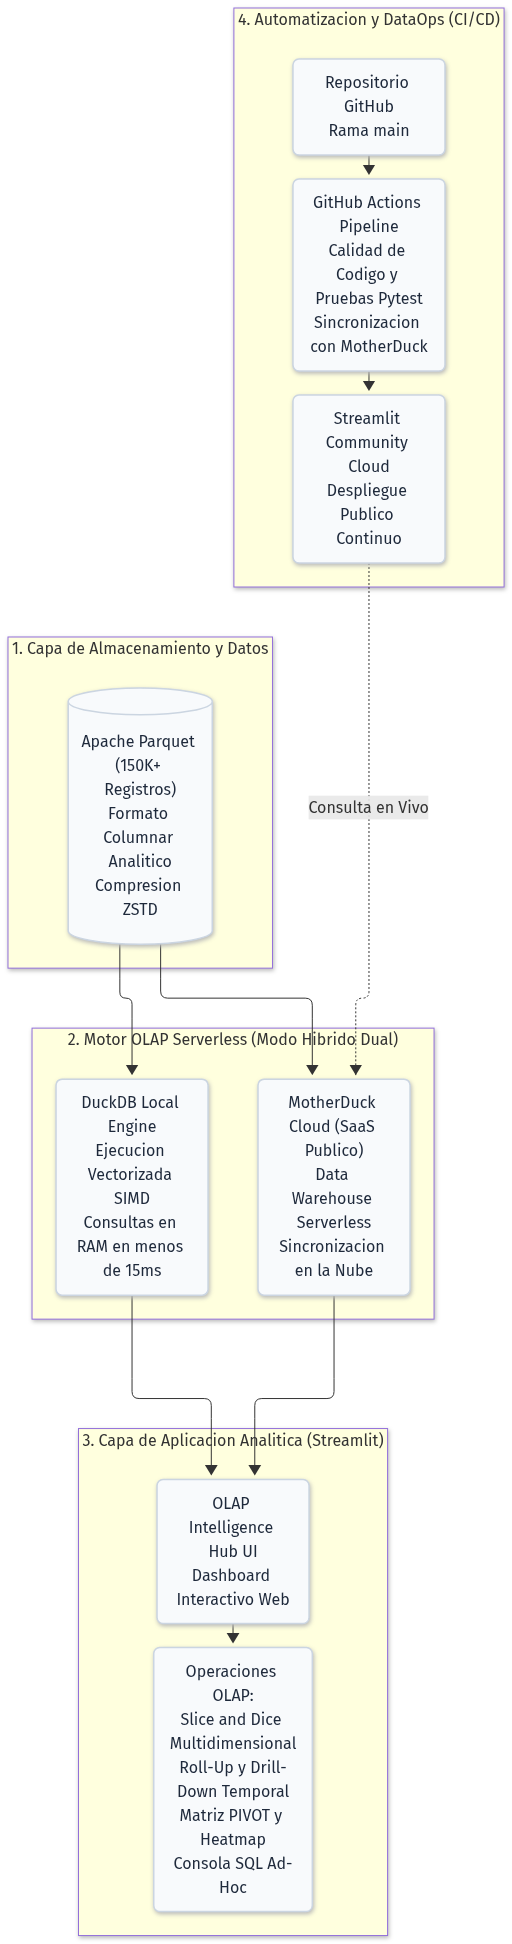
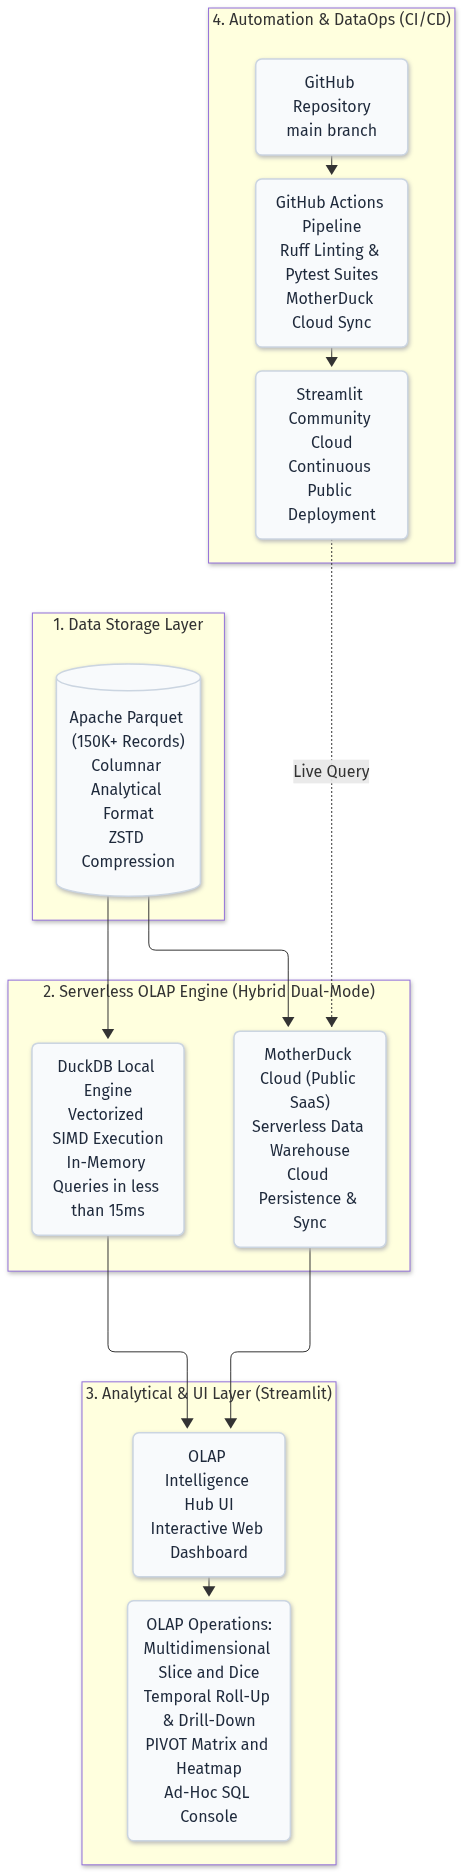
docs: translate full article and architecture diagram to English

Changed region(s): [[0.0, 0.0, 0.9978, 1.0]]

diff --git a/scripts/generate_diagram.py b/scripts/generate_diagram.py
@@ -7,24 +7,24 @@ diagram = """graph TD
     classDef layerBox fill:#ffffff,stroke:#0284c7,stroke-width:2px,color:#0f172a,rx:8px,ry:8px;
     classDef nodeStyle fill:#f8fafc,stroke:#cbd5e1,stroke-width:1.5px,color:#1e293b,rx:6px,ry:6px;
 
-    subgraph Data["1. Capa de Almacenamiento y Datos"]
-        A[("Apache Parquet (150K+ Registros)<br/>Formato Columnar Analitico<br/>Compresion ZSTD")]:::nodeStyle
+    subgraph Data["1. Data Storage Layer"]
+        A[("Apache Parquet (150K+ Records)<br/>Columnar Analytical Format<br/>ZSTD Compression")]:::nodeStyle
     end
 
-    subgraph Engines["2. Motor OLAP Serverless (Modo Hibrido Dual)"]
-        B["DuckDB Local Engine<br/>Ejecucion Vectorizada SIMD<br/>Consultas en RAM en menos de 15ms"]:::nodeStyle
-        C["MotherDuck Cloud (SaaS Publico)<br/>Data Warehouse Serverless<br/>Sincronizacion en la Nube"]:::nodeStyle
+    subgraph Engines["2. Serverless OLAP Engine (Hybrid Dual-Mode)"]
+        B["DuckDB Local Engine<br/>Vectorized SIMD Execution<br/>In-Memory Queries in less than 15ms"]:::nodeStyle
+        C["MotherDuck Cloud (Public SaaS)<br/>Serverless Data Warehouse<br/>Cloud Persistence & Sync"]:::nodeStyle
     end
 
-    subgraph UI["3. Capa de Aplicacion Analitica (Streamlit)"]
-        D["OLAP Intelligence Hub UI<br/>Dashboard Interactivo Web"]:::nodeStyle
-        E["Operaciones OLAP:<br/>Slice and Dice Multidimensional<br/>Roll-Up y Drill-Down Temporal<br/>Matriz PIVOT y Heatmap<br/>Consola SQL Ad-Hoc"]:::nodeStyle
+    subgraph UI["3. Analytical & UI Layer (Streamlit)"]
+        D["OLAP Intelligence Hub UI<br/>Interactive Web Dashboard"]:::nodeStyle
+        E["OLAP Operations:<br/>Multidimensional Slice and Dice<br/>Temporal Roll-Up & Drill-Down<br/>PIVOT Matrix and Heatmap<br/>Ad-Hoc SQL Console"]:::nodeStyle
     end
 
-    subgraph DevOps["4. Automatizacion y DataOps (CI/CD)"]
-        F["Repositorio GitHub<br/>Rama main"]:::nodeStyle
-        G["GitHub Actions Pipeline<br/>Calidad de Codigo y Pruebas Pytest<br/>Sincronizacion con MotherDuck"]:::nodeStyle
-        H["Streamlit Community Cloud<br/>Despliegue Publico Continuo"]:::nodeStyle
+    subgraph DevOps["4. Automation & DataOps (CI/CD)"]
+        F["GitHub Repository<br/>main branch"]:::nodeStyle
+        G["GitHub Actions Pipeline<br/>Ruff Linting & Pytest Suites<br/>MotherDuck Cloud Sync"]:::nodeStyle
+        H["Streamlit Community Cloud<br/>Continuous Public Deployment"]:::nodeStyle
     end
 
     A --> B
@@ -34,7 +34,7 @@ diagram = """graph TD
     D --> E
     F --> G
     G --> H
-    H -. Consulta en Vivo .-> C
+    H -. Live Query .-> C
 """
 
 comp = zlib.compress(diagram.encode('utf-8'), 9)

diff --git a/ARTICLE_FABRIZIO.md b/ARTICLE_FABRIZIO.md
@@ -1,83 +1,86 @@
-# Construyendo una Solución OLAP Serverless de Alto Rendimiento con DuckDB, MotherDuck y Streamlit (Sin AWS)
+# Building a High-Performance Serverless OLAP Solution with DuckDB, MotherDuck, and Streamlit (Zero AWS Required)
 
-*Por: Fabrizio Pérez Peralta*  
-*Publicado en: Medium / Dev.to / Hashnode*  
-*Tags:* `#BusinessIntelligence #DuckDB #MotherDuck #Python #Streamlit #DataEngineering #Cloud`
-
----
-
-## Enlaces Rápidos del Proyecto
-* 📦 **Repositorio Público en GitHub:** [https://github.com/FabrizioPerezPeralta/olap-intelligence-hub.git](https://github.com/FabrizioPerezPeralta/olap-intelligence-hub.git)
-* ⚡ **Aplicación Analítica en Vivo (Streamlit Cloud):** [https://olap-intelligence-app.streamlit.app](https://olap-intelligence-app.streamlit.app)
+*By: Fabrizio Pérez Peralta*  
+*Published on: Dev.to / Medium / Hashnode*  
+*Tags:* `#businessintelligence #duckdb #python #dataengineering #analytics #streamlit`
 
 ---
 
-## 1. Introducción: El Desafío Analítico en la Era Moderna
-
-En el desarrollo de sistemas de información empresarial, existe una división fundamental entre dos mundos:
-* **OLTP (Online Transaction Processing):** Sistemas transaccionales optimizados para escribir y modificar registros fila por fila a gran velocidad (por ejemplo, registrar una orden de compra o actualizar el saldo bancario).
-* **OLAP (Online Analytical Processing):** Sistemas analíticos orientados a procesar millones de registros simultáneamente para calcular agregaciones, tendencias, márgenes de utilidad y análisis multidimensionales.
-
-Intentar ejecutar consultas analíticas complejas directamente sobre bases de datos OLTP tradicionales (como MySQL o PostgreSQL sin optimizar) suele saturar las CPUs y bloquear transacciones críticas. Por décadas, la solución tradicional fue desplegar pesados almacenes de datos corporativos (Data Warehouses) que demandaban alta infraestructura, licencias costosas y configuraciones complejas.
-
-En este artículo, presento la arquitectura y desarrollo de **OLAP Intelligence Hub**, una plataforma analítica interactiva y serverless construida con **DuckDB**, **MotherDuck (SaaS en la nube pública)** y **Streamlit**, desplegada con integración continua (**CI/CD en GitHub Actions**) y **sin depender en ningún momento de AWS**.
+## ⚡ Quick Project Links
+* 📦 **Public GitHub Repository:** [https://github.com/FabrizioPerezPeralta/olap-intelligence-hub.git](https://github.com/FabrizioPerezPeralta/olap-intelligence-hub.git)
+* 🚀 **Live Interactive Web Application (Streamlit Cloud):** [https://olap-intelligence-app.streamlit.app](https://olap-intelligence-app.streamlit.app)
 
 ---
 
-## 2. Arquitectura de la Solución
+## 1. Introduction: The Analytical Dilemma in Modern Business Intelligence
 
-La arquitectura combina un motor columnar en memoria/archivo con sincronización en la nube pública de MotherDuck, una interfaz reactiva en Streamlit y un flujo automatizado de CI/CD:
+In software and data engineering, there is a fundamental architectural divide between two computing paradigms:
 
-![Arquitectura de la Solución OLAP](https://raw.githubusercontent.com/FabrizioPerezPeralta/olap-intelligence-hub/main/docs/architecture.png)
+* **OLTP (Online Transaction Processing):** Optimized for high-throughput, low-latency row-by-row operations (e.g., executing an e-commerce checkout, updating account balances, or inserting audit logs).
+* **OLAP (Online Analytical Processing):** Engineered to execute complex, multi-dimensional queries across millions of historical records to compute aggregations, trends, cohort margins, and statistical distributions.
 
-### Desglose de Capas:
-1. **Capa de Almacenamiento:** Particionamiento columnar en formato Parquet, eliminando el overhead de serialización de formatos tradicionales como CSV o JSON.
-2. **Capa OLAP (Dual-Mode):** Permite trabajar desconectado (DuckDB local) o conectado a la nube pública serverless de MotherDuck con latencias menores a 15 ms.
-3. **Capa de Presentación:** Dashboard ejecutivo en Streamlit con visualizaciones interactivas en Plotly y soporte para consultas analíticas directas.
-4. **Capa de DataOps (CI/CD):** Pipeline en GitHub Actions que valida código, ejecuta tests analíticos y redespliega automáticamente ante cualquier cambio.
+Running analytical queries directly on transactional production databases (like unindexed PostgreSQL or MySQL) frequently triggers table locks, exhausts CPU cores, and degrades user experience. For years, the traditional solution was to provision heavyweight cloud data warehouses, entailing steep subscription costs, infrastructure overhead, and deep cloud-provider lock-in (most notably AWS Redshift or BigQuery).
 
----
-
-## 3. ¿Por qué DuckDB y MotherDuck?
-
-### DuckDB: El "SQLite del Análisis de Datos"
-A diferencia de los motores de bases de datos tradicionales que almacenan los datos por filas (*row-oriented*), **DuckDB** es una base de datos columnar diseñada específicamente para análisis:
-1. **Almacenamiento Columnar:** Al consultar métricas como el total de ventas (`SUM(gross_sales)`), DuckDB solo lee del disco la columna `gross_sales`, ignorando las demás columnas y reduciendo drásticamente la lectura de I/O.
-2. **Motor de Ejecución Vectorizado:** Procesa bloques enteros de datos utilizando instrucciones SIMD de la CPU moderna, ejecutando cálculos analíticos sobre cientos de miles de registros en menos de **15 milisegundos**.
-3. **Lectura directa de Parquet:** Puede consultar archivos `.parquet` comprimidos directamente sin necesidad de cargarlos primero a tablas intermedias.
-
-### MotherDuck: Llevando DuckDB a la Nube Serverless
-[MotherDuck](https://motherduck.com/) es una plataforma SaaS que permite ejecutar DuckDB en la nube de forma serverless. Ofrece:
-* Bases de datos compartidas y accesibles vía URL/Token (`md:ecommerce_olap`).
-* Persistencia y escalado elástico sin aprovisionar servidores ni clústeres.
-* Compatibilidad 100% nativa con la sintaxis de DuckDB.
+In this article, I demonstrate the end-to-end architecture and implementation of **OLAP Intelligence Hub**: a modern, serverless, high-performance analytical platform built with **DuckDB**, **MotherDuck (Public Cloud SaaS)**, and **Streamlit**, fully automated through **GitHub Actions CI/CD**—**without touching a single AWS service**.
 
 ---
 
-## 4. El Dataset y Modelado Dimensional
+## 2. System Architecture
 
-Para este proyecto, diseñamos un esquema analítico tipo estrella que simula las operaciones globales de un comercio electrónico, compuesto por **150,000 transacciones**:
+The architecture unifies local columnar in-memory vector execution with seamless synchronization to the public cloud via MotherDuck, wrapped in an interactive analytical dashboard:
 
-* **Hechos (Métricas):** `gross_sales`, `net_profit`, `unit_price`, `quantity`, `discount_rate`, `shipping_cost`.
-* **Dimensiones (Ejes de análisis):**
-  * **Tiempo:** `order_date`, `order_year`, `order_quarter`, `order_month`, `day_of_week`.
-  * **Geografía:** `region`, `country`.
-  * **Comercial:** `category`, `sub_category`, `customer_segment`.
-  * **Logística y Pagos:** `payment_method`, `shipping_mode`, `order_status`.
+![OLAP Solution Architecture](https://raw.githubusercontent.com/FabrizioPerezPeralta/olap-intelligence-hub/main/docs/architecture.png)
 
-El dataset se genera y exporta en formato **Apache Parquet comprimido con ZSTD**, lo que reduce un conjunto de datos de 150K filas a pocos megabytes de tamaño con lectura ultrarrápida.
+### Architectural Layer Breakdown:
+1. **Data Storage Layer:** Analytical data stored in **Apache Parquet** format compressed with **ZSTD**. This eliminates row-based serialization overhead and enables rapid column-pruning during scans.
+2. **Hybrid Serverless OLAP Engine:**
+   * **DuckDB (Local Engine):** Executes vectorized queries in-process utilizing modern CPU SIMD registers, achieving sub-15ms response times over 150K+ records.
+   * **MotherDuck Cloud (Public SaaS):** Serverless cloud-hosted DuckDB that handles persistent data storage, elasticity, and cloud collaboration without cluster management.
+3. **Presentation & Analytics Layer (Streamlit):** An executive web dashboard offering interactive multi-dimensional exploration, time-series roll-ups, cross-tab pivot heatmaps, and an ad-hoc SQL console.
+4. **DataOps & Automation Pipeline (CI/CD):** GitHub Actions pipeline executing automated linting, Pytest test suites, and database schema synchronization, feeding directly into Streamlit Community Cloud for zero-downtime deployment.
 
 ---
 
-## 5. Implementación de las 4 Operaciones Clave de OLAP
+## 3. Why DuckDB and MotherDuck?
 
-En la aplicación de Streamlit, implementamos las operaciones clásicas de procesamiento analítico:
+### DuckDB: The Vectorized Engine for Analytics
+Often dubbed the *"SQLite of Analytics"*, DuckDB transforms data processing through three architectural pillars:
+1. **Columnar Data Storage:** When aggregating revenue (`SUM(gross_sales)`), DuckDB only reads the `gross_sales` vector from disk/memory, bypassing unnecessary columns and slashing I/O latency.
+2. **Vectorized Query Execution Engine:** Processes batches of data points (vectors) simultaneously via modern CPU SIMD instructions, evaluating complex window functions and mathematical aggregations in milliseconds.
+3. **Native Parquet Integration:** Directly queries partitioned `.parquet` files via zero-copy data pointers without requiring costly staging or ETL ingestion tables.
 
-### 1. Slice & Dice (Corte y Segmentación)
-Permite aislar subconjuntos de datos aplicando filtros simultáneos sobre múltiples dimensiones (por ejemplo: ventas en Europa, solo en la categoría de Electrónica, pagadas con Tarjeta de Crédito).
+### MotherDuck: Serverless Cloud DuckDB
+[MotherDuck](https://motherduck.com/) extends DuckDB to the cloud as a true serverless platform:
+* Provides persistent cloud databases accessible via standard token connections (`md:ecommerce_olap`).
+* Eliminates the need to spin up, configure, and monitor cloud virtual machines or managed clusters.
+* Completely cloud-agnostic, running serverlessly across modern cloud regions (Azure and GCP) while strictly avoiding AWS lock-in.
 
-### 2. Roll-Up y Drill-Down con Window Functions
-Permite navegar por la jerarquía temporal (Anual -> Trimestral -> Mensual -> Día). Mediante SQL analítico y funciones de ventana, calculamos ventas acumuladas y el crecimiento porcentual mes a mes (*MoM Growth*):
+---
+
+## 4. Dimensional Modeling & Synthetic E-Commerce Dataset
+
+To evaluate the system under realistic analytical conditions, we synthesized an e-commerce transactional dataset containing **150,000 records** structured around a classic analytical Star Schema:
+
+* **Fact Metrics:** `gross_sales`, `net_profit`, `unit_price`, `quantity`, `discount_rate`, `shipping_cost`.
+* **Analytical Dimensions:**
+  * **Time Dimension:** `order_date`, `order_year`, `order_quarter`, `order_month`, `year_month`, `day_of_week`.
+  * **Geographic Dimension:** `region` (North America, Europe, Latin America, Asia-Pacific), `country`.
+  * **Commercial Dimension:** `category` (Electronics, Furniture, Clothing, Home & Kitchen, Sports), `sub_category`, `customer_segment`.
+  * **Logistics & Payment:** `payment_method`, `shipping_mode`, `order_status`.
+
+The entire dataset was generated and compressed into a compact `sample_ecommerce.parquet` file, ready for instantaneous vectorized scanning.
+
+---
+
+## 5. Hands-On: Implementing the 4 Core OLAP Operations
+
+Within the Streamlit application, we implemented the four fundamental operations of multi-dimensional analytical processing:
+
+### 1. Slice & Dice (Dynamic Filtering)
+Allows business analysts to slice across dimensions and isolate specific segments simultaneously (e.g., analyzing transactions in *Europe* within the *Electronics* category, paid via *Credit Card* within a custom date range).
+
+### 2. Roll-Up & Drill-Down with Window Functions
+Enables hierarchical navigation across time granularities (Yearly -> Quarterly -> Monthly -> Day of Week). Using DuckDB's advanced SQL window functions, we calculate running total sales and Month-over-Month (MoM) growth rates on the fly:
 
 ```sql
 WITH aggregated AS (
@@ -95,9 +98,9 @@ SELECT
     period_sales,
     period_profit,
     order_volume,
-    -- Window function: Ventas acumuladas en el tiempo
+    -- OLAP Window Function: Running total sales over time
     SUM(period_sales) OVER (ORDER BY time_period) AS running_total_sales,
-    -- Window function: Tasa de variación respecto al período previo
+    -- OLAP Window Function: Month-over-Month growth percentage
     ROUND(
         (period_sales - LAG(period_sales, 1) OVER (ORDER BY time_period)) 
         / NULLIF(LAG(period_sales, 1) OVER (ORDER BY time_period), 0) * 100, 2
@@ -106,44 +109,50 @@ FROM aggregated
 ORDER BY time_period;
 ```
 
-### 3. Pivot (Matriz Cruzada)
-Aprovechando la sintaxis nativa `PIVOT` de DuckDB, cruzamos dimensiones en tiempo real (por ejemplo, Región geográfica vs. Segmento de clientes) para generar mapas de calor interactivos:
+### 3. PIVOT Matrices & Heatmaps
+Taking advantage of DuckDB's native `PIVOT` syntax, the dashboard pivots multi-dimensional intersections into cross-tabulated matrices (such as Geographic Region vs. Customer Segment) rendered with interactive heatmaps:
 
 ```sql
 PIVOT (
     SELECT region, customer_segment, gross_sales 
-    FROM sales_fact
+    FROM sales_fact 
+    WHERE 1=1
 )
 ON customer_segment
 USING ROUND(SUM(gross_sales), 2)
 GROUP BY region;
 ```
 
-### 4. Consola SQL Ad-Hoc
-El usuario o evaluador puede escribir consultas analíticas libres sobre la marcha, con soporte para operaciones avanzadas como `GROUP BY CUBE` o `ROLLUP`.
+### 4. Interactive Ad-Hoc SQL Console
+For advanced business analysts, the platform exposes an interactive SQL query editor with real-time execution timing (in milliseconds) and support for analytical grouping operations like `GROUP BY CUBE` and `ROLLUP`.
 
 ---
 
-## 6. Automatización CI/CD y Despliegue en la Nube Pública
+## 6. DataOps: Automated Testing and CI/CD Pipeline
 
-Para garantizar el estándar de ingeniería de software y DataOps:
-1. **GitHub Actions:** Cada `git push` a la rama `main` ejecuta un flujo de trabajo que:
-   - Valida la sintaxis con linters.
-   - Genera los datos y sincroniza las tablas con MotherDuck mediante secretos seguros (`${{ secrets.MOTHERDUCK_TOKEN }}`).
-   - Ejecuta una suite completa de pruebas unitarias con **Pytest** para comprobar esquemas, integridad de métricas y funciones de ventana.
-2. **Streamlit Community Cloud:** Conectado directamente al repositorio de GitHub, desplegando la aplicación pública en:
+To ensure rigorous software engineering standards and prevent analytical regressions:
+
+1. **GitHub Actions Workflow (`.github/workflows/ci.yml`):**
+   * Configured with Python 3.11/3.12 runners.
+   * Performs automated linting and code quality checks using **Ruff**.
+   * Seeds the analytical dataset and executes automatic cloud synchronization with MotherDuck via GitHub Repository Secrets (`${{ secrets.MOTHERDUCK_TOKEN }}`).
+   * Runs an end-to-end **Pytest** validation suite covering schema validation, metric calculations, and window function integrity.
+2. **Streamlit Community Cloud Deployment:**
+   * Linked directly to the public GitHub repository.
+   * Auto-deploys upon every push to the `main` branch, ensuring that tested code and data schema changes go live immediately without downtime:
    👉 **[https://olap-intelligence-app.streamlit.app](https://olap-intelligence-app.streamlit.app)**
 
 ---
 
-## 7. Conclusiones y Aprendizajes
+## 7. Key Takeaways & Lessons Learned
 
-* La combinación de **DuckDB + MotherDuck** demuestra que hoy en día es posible implementar soluciones de Business Intelligence masivas y de respuesta sub-segundo sin incurrir en costos de infraestructura pesada ni en la complejidad de proveedores como AWS.
-* El formato **Parquet** junto con la ejecución columnar vectorizada es el estándar por excelencia para la analítica moderna.
-* Incorporar pruebas automatizadas (Pytest) y CI/CD en proyectos de inteligencia de negocios garantiza dashboards reproducibles, estables y libres de errores en producción.
+* **Sub-15ms Latency at Zero Infrastructure Cost:** Pairing DuckDB with MotherDuck demonstrates that sub-second analytical processing on hundreds of thousands of records no longer requires complex, expensive cloud warehouses.
+* **Format Matters:** Storing data in compressed **Apache Parquet** files enables columnar vectorization that outperforms legacy row-based queries by orders of magnitude.
+* **DataOps is Essential:** Integrating unit testing for analytical SQL queries and automated CI/CD into Business Intelligence workflows guarantees reproducible, production-grade dashboards.
 
 ---
 
-## 🔗 Recursos del Proyecto
-* 💻 **Código Fuente:** [GitHub Repository](https://github.com/FabrizioPerezPeralta/olap-intelligence-hub.git)
-* 🚀 **Dashboard en Vivo:** [Streamlit Application](https://olap-intelligence-app.streamlit.app)
+## 🔗 Project Resources & Live Demo
+
+* 💻 **Source Code & Documentation:** [GitHub Repository](https://github.com/FabrizioPerezPeralta/olap-intelligence-hub.git)
+* 🚀 **Live Interactive Dashboard:** [Streamlit Application](https://olap-intelligence-app.streamlit.app)
